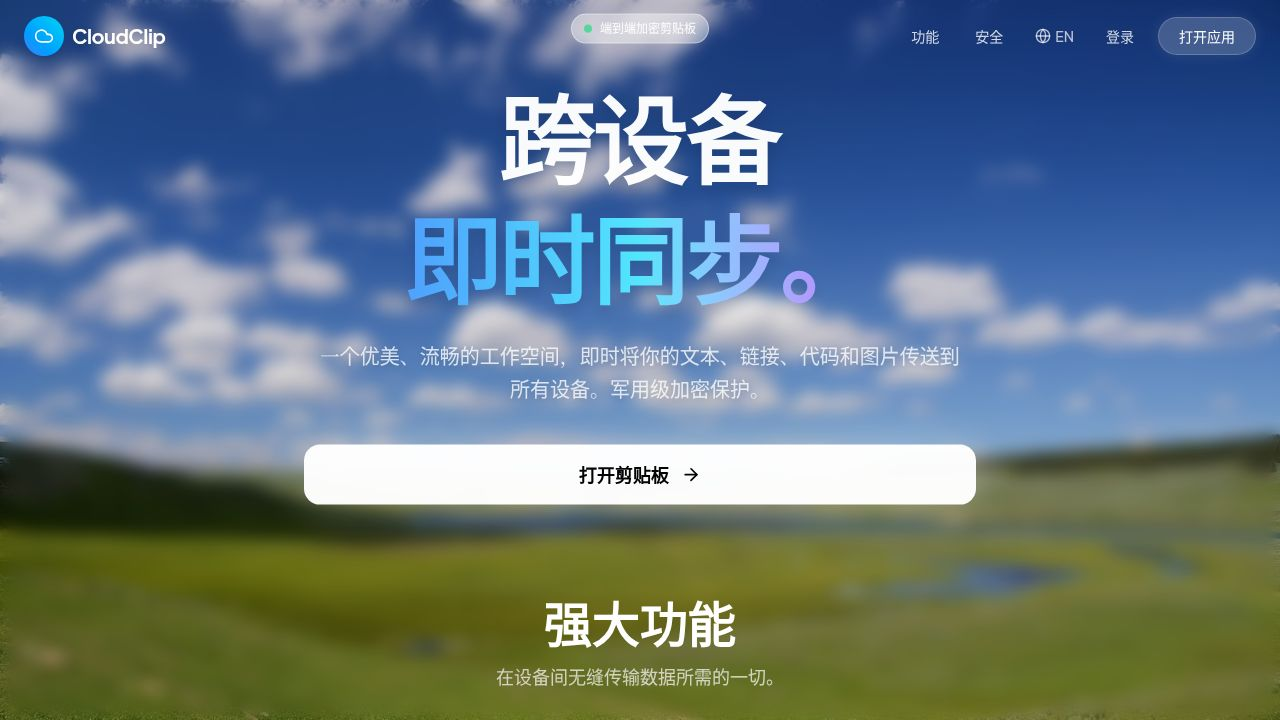
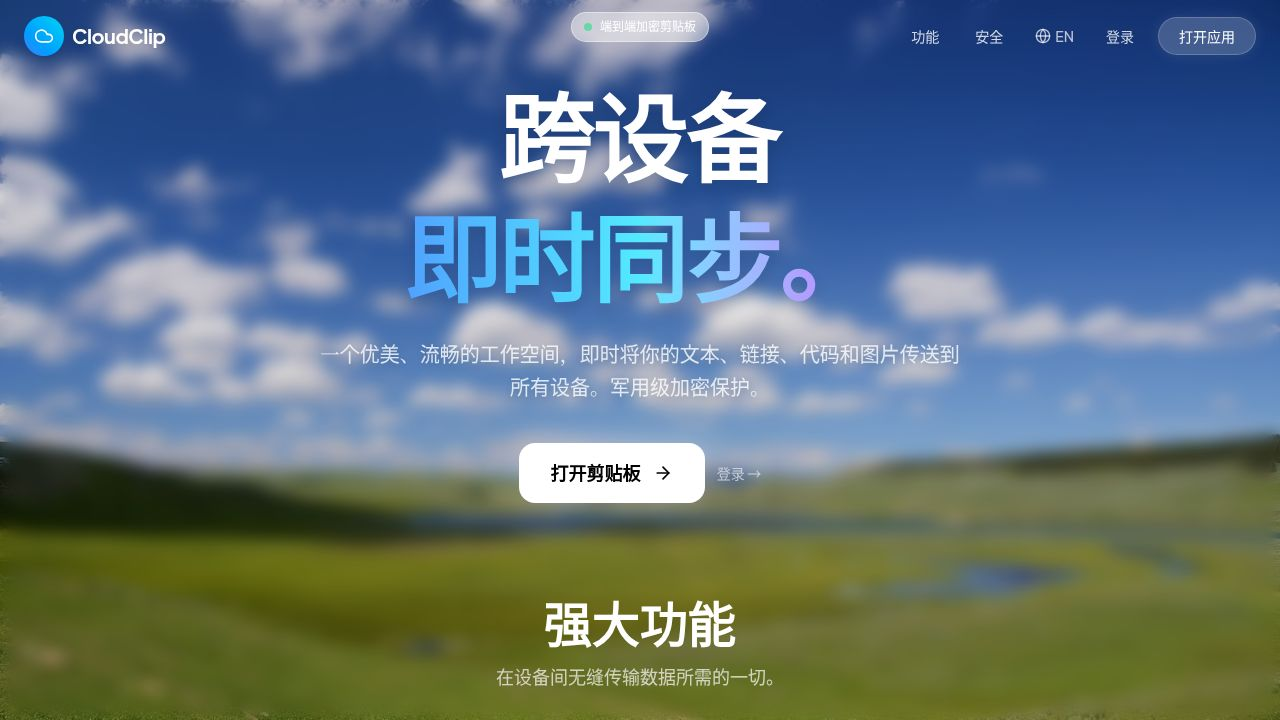
Fix #5: mobile responsive layout & interaction bugs
1. Remove duplicate mobile sidebar nav
   - Changed nav from `flex md:block` (showing icon-only horizontal scroll
     on mobile) to `hidden md:block` — on mobile the sidebar now shows only
     the compact room-header strip; all filtering is handled exclusively by
     the mobile bottom bar, eliminating duplicate controls.

2. Onboarding step-4 tooltip duplication already handled
   - Desktop sidebar settings block is `hidden md:block` so its tooltip
     never fires on mobile. Mobile bottom bar tooltip already guarded by
     `md:hidden` on the bar itself. No additional change needed — analysis
     confirmed the CSS already prevented simultaneous firing.

3. Increase mobile bottom-bar clearance
   - Changed `pb-[120px]` → `pb-[144px]` on the main content area, giving
     24px extra clearance above the two-row bottom bar to prevent clips
     from being hidden behind it on any device.

4. Fix landing hero negative-margin overlap
   - Removed `sm:mt-[-40px] md:mt-[-60px]` from hero `<main>`, replaced
     with `py-8 sm:py-12`. Hero now naturally centres in flex-1 space
     without risk of overlapping the navbar at any width.
   - Also removed invalid `xs:text-4xl` breakpoint (Tailwind v4 has no xs
     prefix); replaced with `text-4xl` as the base mobile size.

5. Stabilise compose toolbar on narrow screens
   - Changed left action-button group from `flex-wrap` to `flex-shrink
     overflow-hidden min-w-0`, preventing awkward line-breaks. Send button
[…]

diff --git a/client/src/pages/Home.tsx b/client/src/pages/Home.tsx
@@ -647,14 +647,14 @@ export default function Home() {
             </div>
           </div>
 
-          <nav className="flex-row overflow-x-auto md:flex-col space-y-0 md:space-y-1 flex-none md:flex-1 md:overflow-y-auto pb-1 md:pb-4 scrollbar-hide flex md:block gap-1.5 items-center -mx-3 px-3 md:mx-0 md:px-0">
-            <div className="hidden md:block text-xs font-semibold text-gray-500 dark:text-gray-400 uppercase tracking-wider mb-2 px-3 mt-4">
+          <nav className="hidden md:block md:space-y-1 md:flex-1 md:overflow-y-auto md:pb-4 scrollbar-hide">
+            <div className="text-xs font-semibold text-gray-500 dark:text-gray-400 uppercase tracking-wider mb-2 px-3 mt-4">
               {t("library")}
             </div>
             <NavItem icon={<Clock />} label={t("recent")} active={activeFilter === "all"} onClick={() => setActiveFilter("all")} />
             <NavItem icon={<Star />} label={t("favorites")} active={activeFilter === "starred"} onClick={() => setActiveFilter("starred")} />
-            <div className="hidden md:block h-px w-full bg-white/20 my-3" />
-            <div className="hidden md:block text-xs font-semibold text-gray-500 dark:text-gray-400 uppercase tracking-wider mb-2 px-3">
+            <div className="h-px w-full bg-white/20 my-3" />
+            <div className="text-xs font-semibold text-gray-500 dark:text-gray-400 uppercase tracking-wider mb-2 px-3">
               {t("types")}
             </div>
             <NavItem icon={<FileText />} label={t("texts")} active={activeFilter === "text"} onClick={() => setActiveFilter("text")} count={clips.filter((c) => c.type === "text").length} />
@@ -716,7 +716,7 @@ export default function Home() {
         </div>
 
         {/* ===== Main Content ===== */}
-        <div className="flex-1 flex flex-col min-w-0 bg-white/5 dark:bg-black/5 pb-[120px] md:pb-0 h-full overflow-hidden">
+        <div className="flex-1 flex flex-col min-w-0 bg-white/5 dark:bg-black/5 pb-[144px] md:pb-0 h-full overflow-hidden">
           <header className="p-3 sm:p-5 pb-2 flex-shrink-0">
             <div
               onDragOver={handleDragOver}
@@ -768,7 +768,7 @@ export default function Home() {
               </div>
 
               <div className="flex items-center justify-between gap-2 p-2 px-3 bg-black/5 dark:bg-white/5 border-t border-white/10">
-                <div className="flex items-center gap-1 flex-wrap">
+                <div className="flex items-center gap-0.5 sm:gap-1 flex-shrink overflow-hidden min-w-0">
                   <button
                     onClick={() => fileInputRef.current?.click()}
                     className="p-2 rounded-lg hover:bg-white/20 text-gray-500 dark:text-gray-400 transition-colors"

diff --git a/client/src/pages/Landing.tsx b/client/src/pages/Landing.tsx
@@ -114,7 +114,7 @@ export default function Landing() {
       )}
 
       {/* ===== Hero ===== */}
-      <main className="relative z-10 flex-1 flex flex-col items-center justify-center text-center px-4 sm:px-6 py-8 sm:py-0 mt-0 sm:mt-[-40px] md:mt-[-60px]">
+      <main className="relative z-10 flex-1 flex flex-col items-center justify-center text-center px-4 sm:px-6 py-8 sm:py-12">
         <motion.div
           initial={{ opacity: 0, y: 30 }}
           animate={{ opacity: 1, y: 0 }}
@@ -126,7 +126,7 @@ export default function Landing() {
             {t("e2eLabel")}
           </div>
 
-          <h1 className="text-3xl xs:text-4xl sm:text-6xl md:text-7xl lg:text-8xl font-extrabold tracking-tight text-white mb-4 sm:mb-6 drop-shadow-xl leading-tight">
+          <h1 className="text-4xl sm:text-6xl md:text-7xl lg:text-8xl font-extrabold tracking-tight text-white mb-4 sm:mb-6 drop-shadow-xl leading-tight">
             {t("heroTitle1")} <br />
             <span className="text-transparent bg-clip-text bg-gradient-to-r from-blue-400 via-cyan-300 to-purple-400">
               {t("heroTitle2")}
